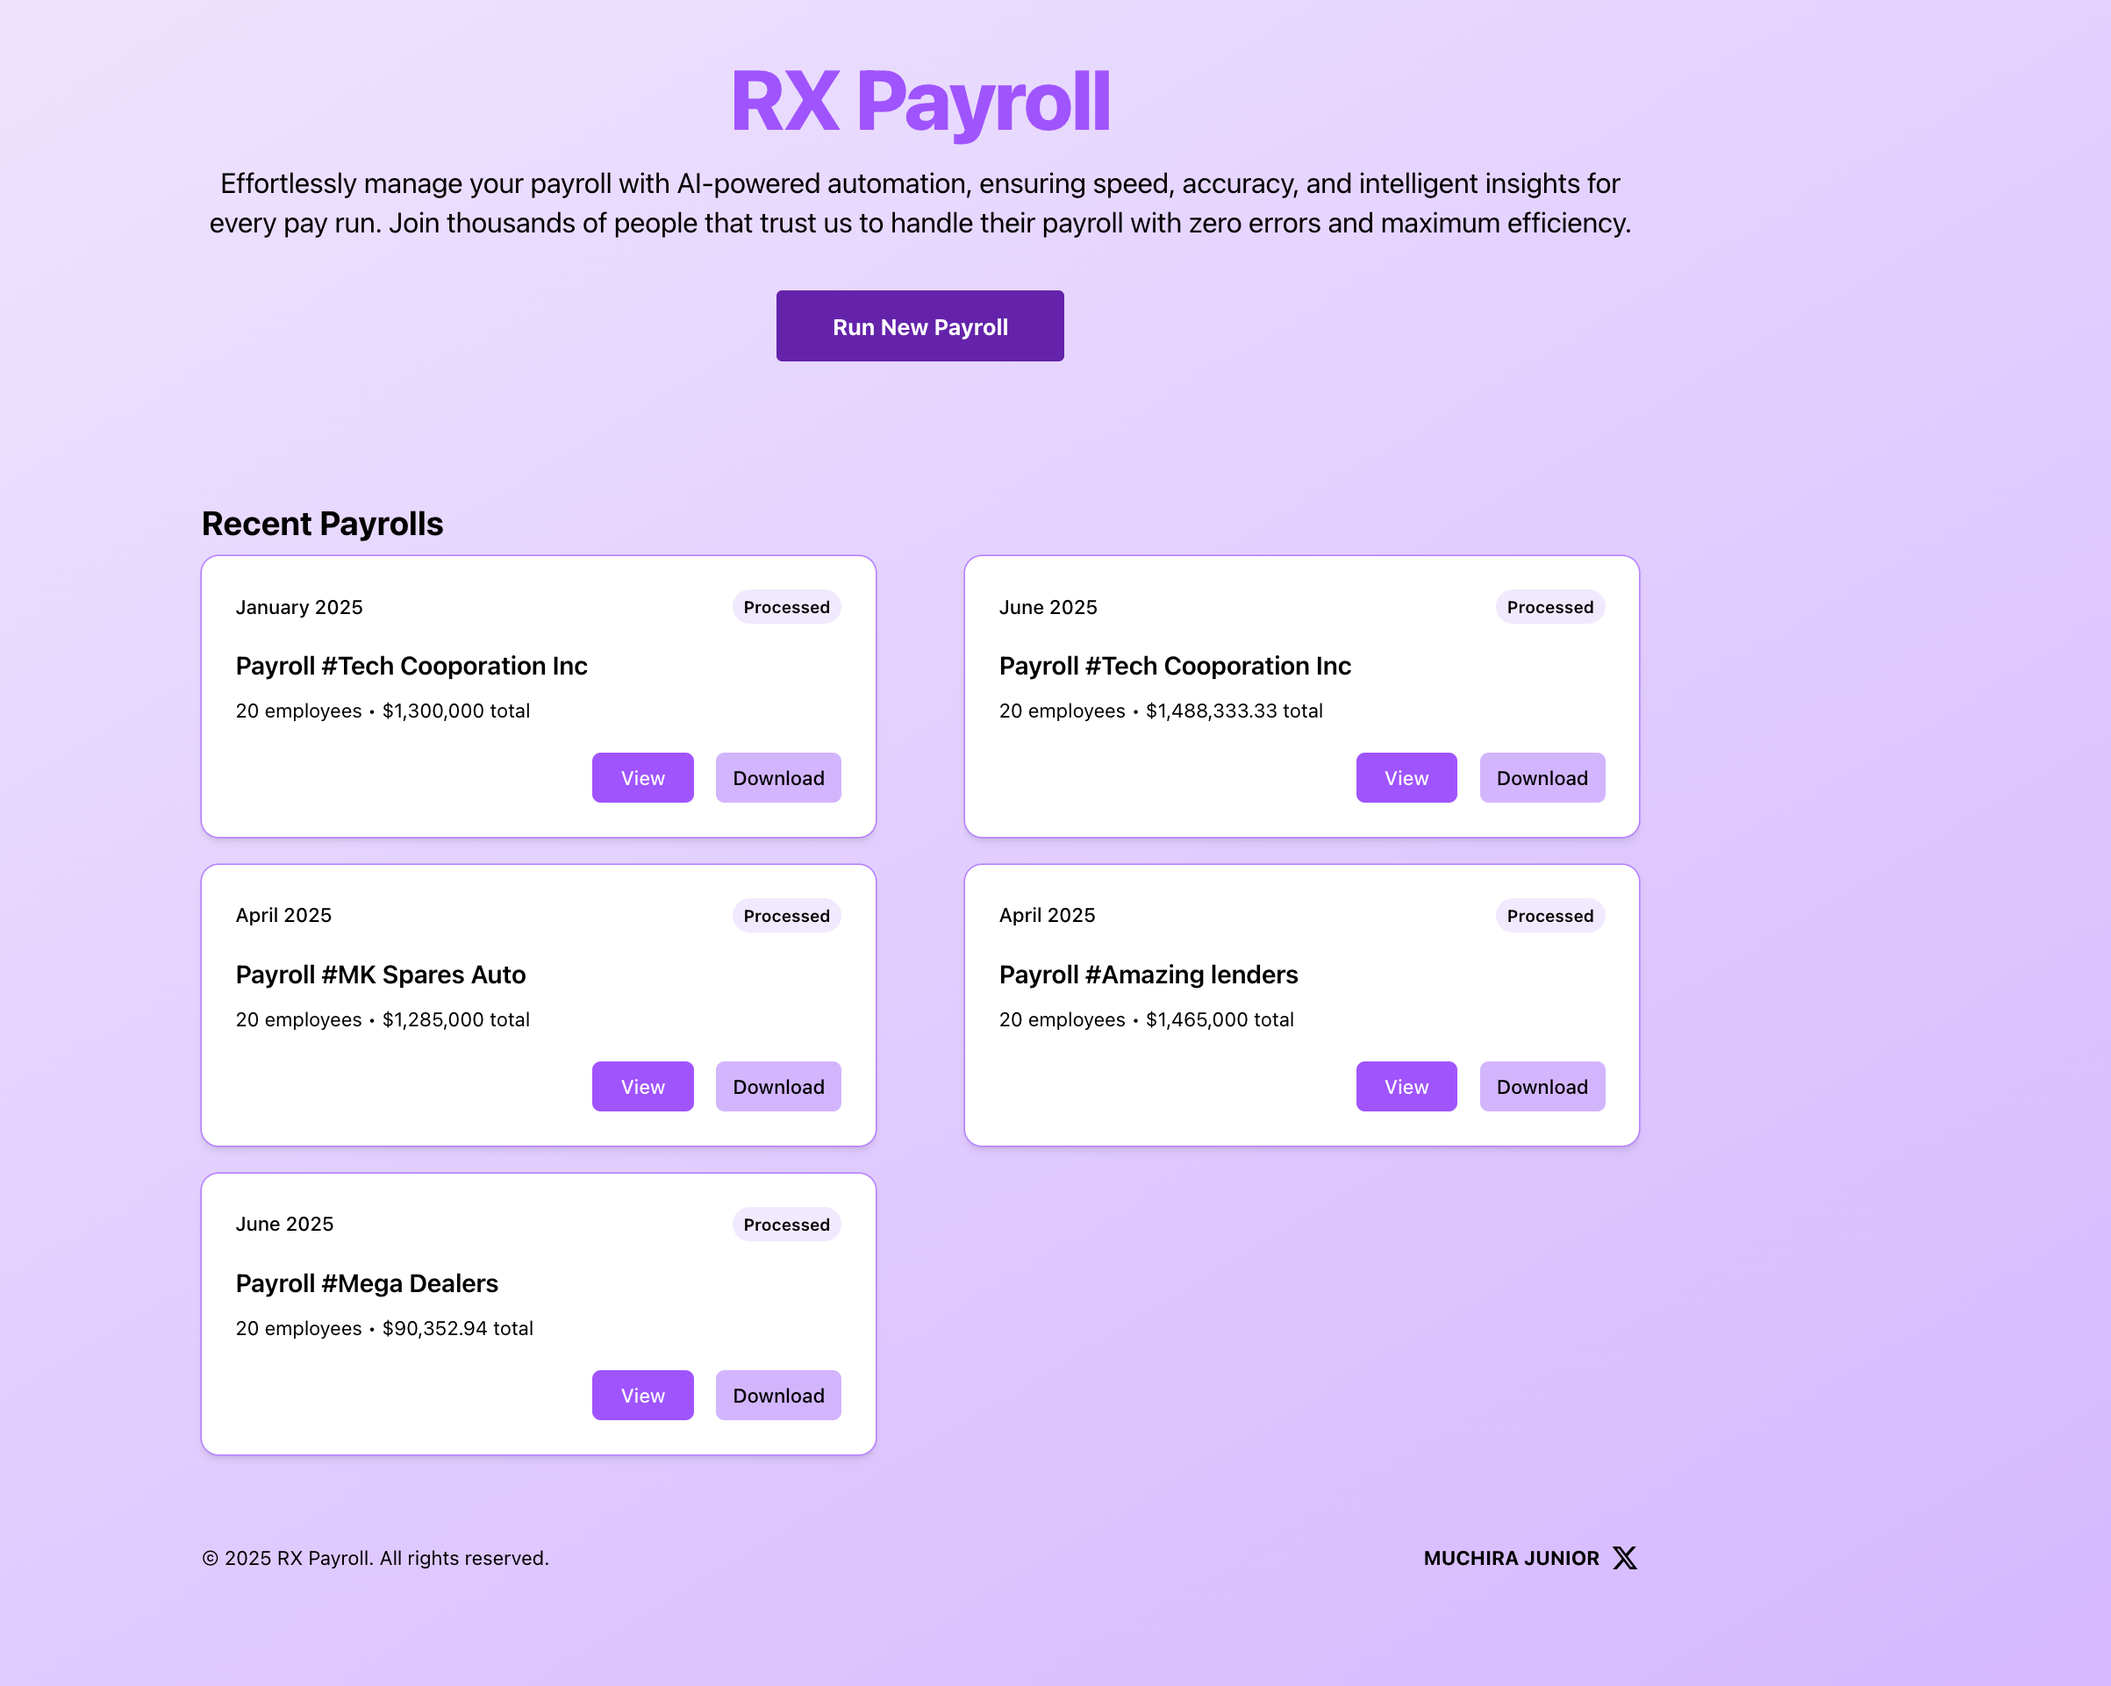
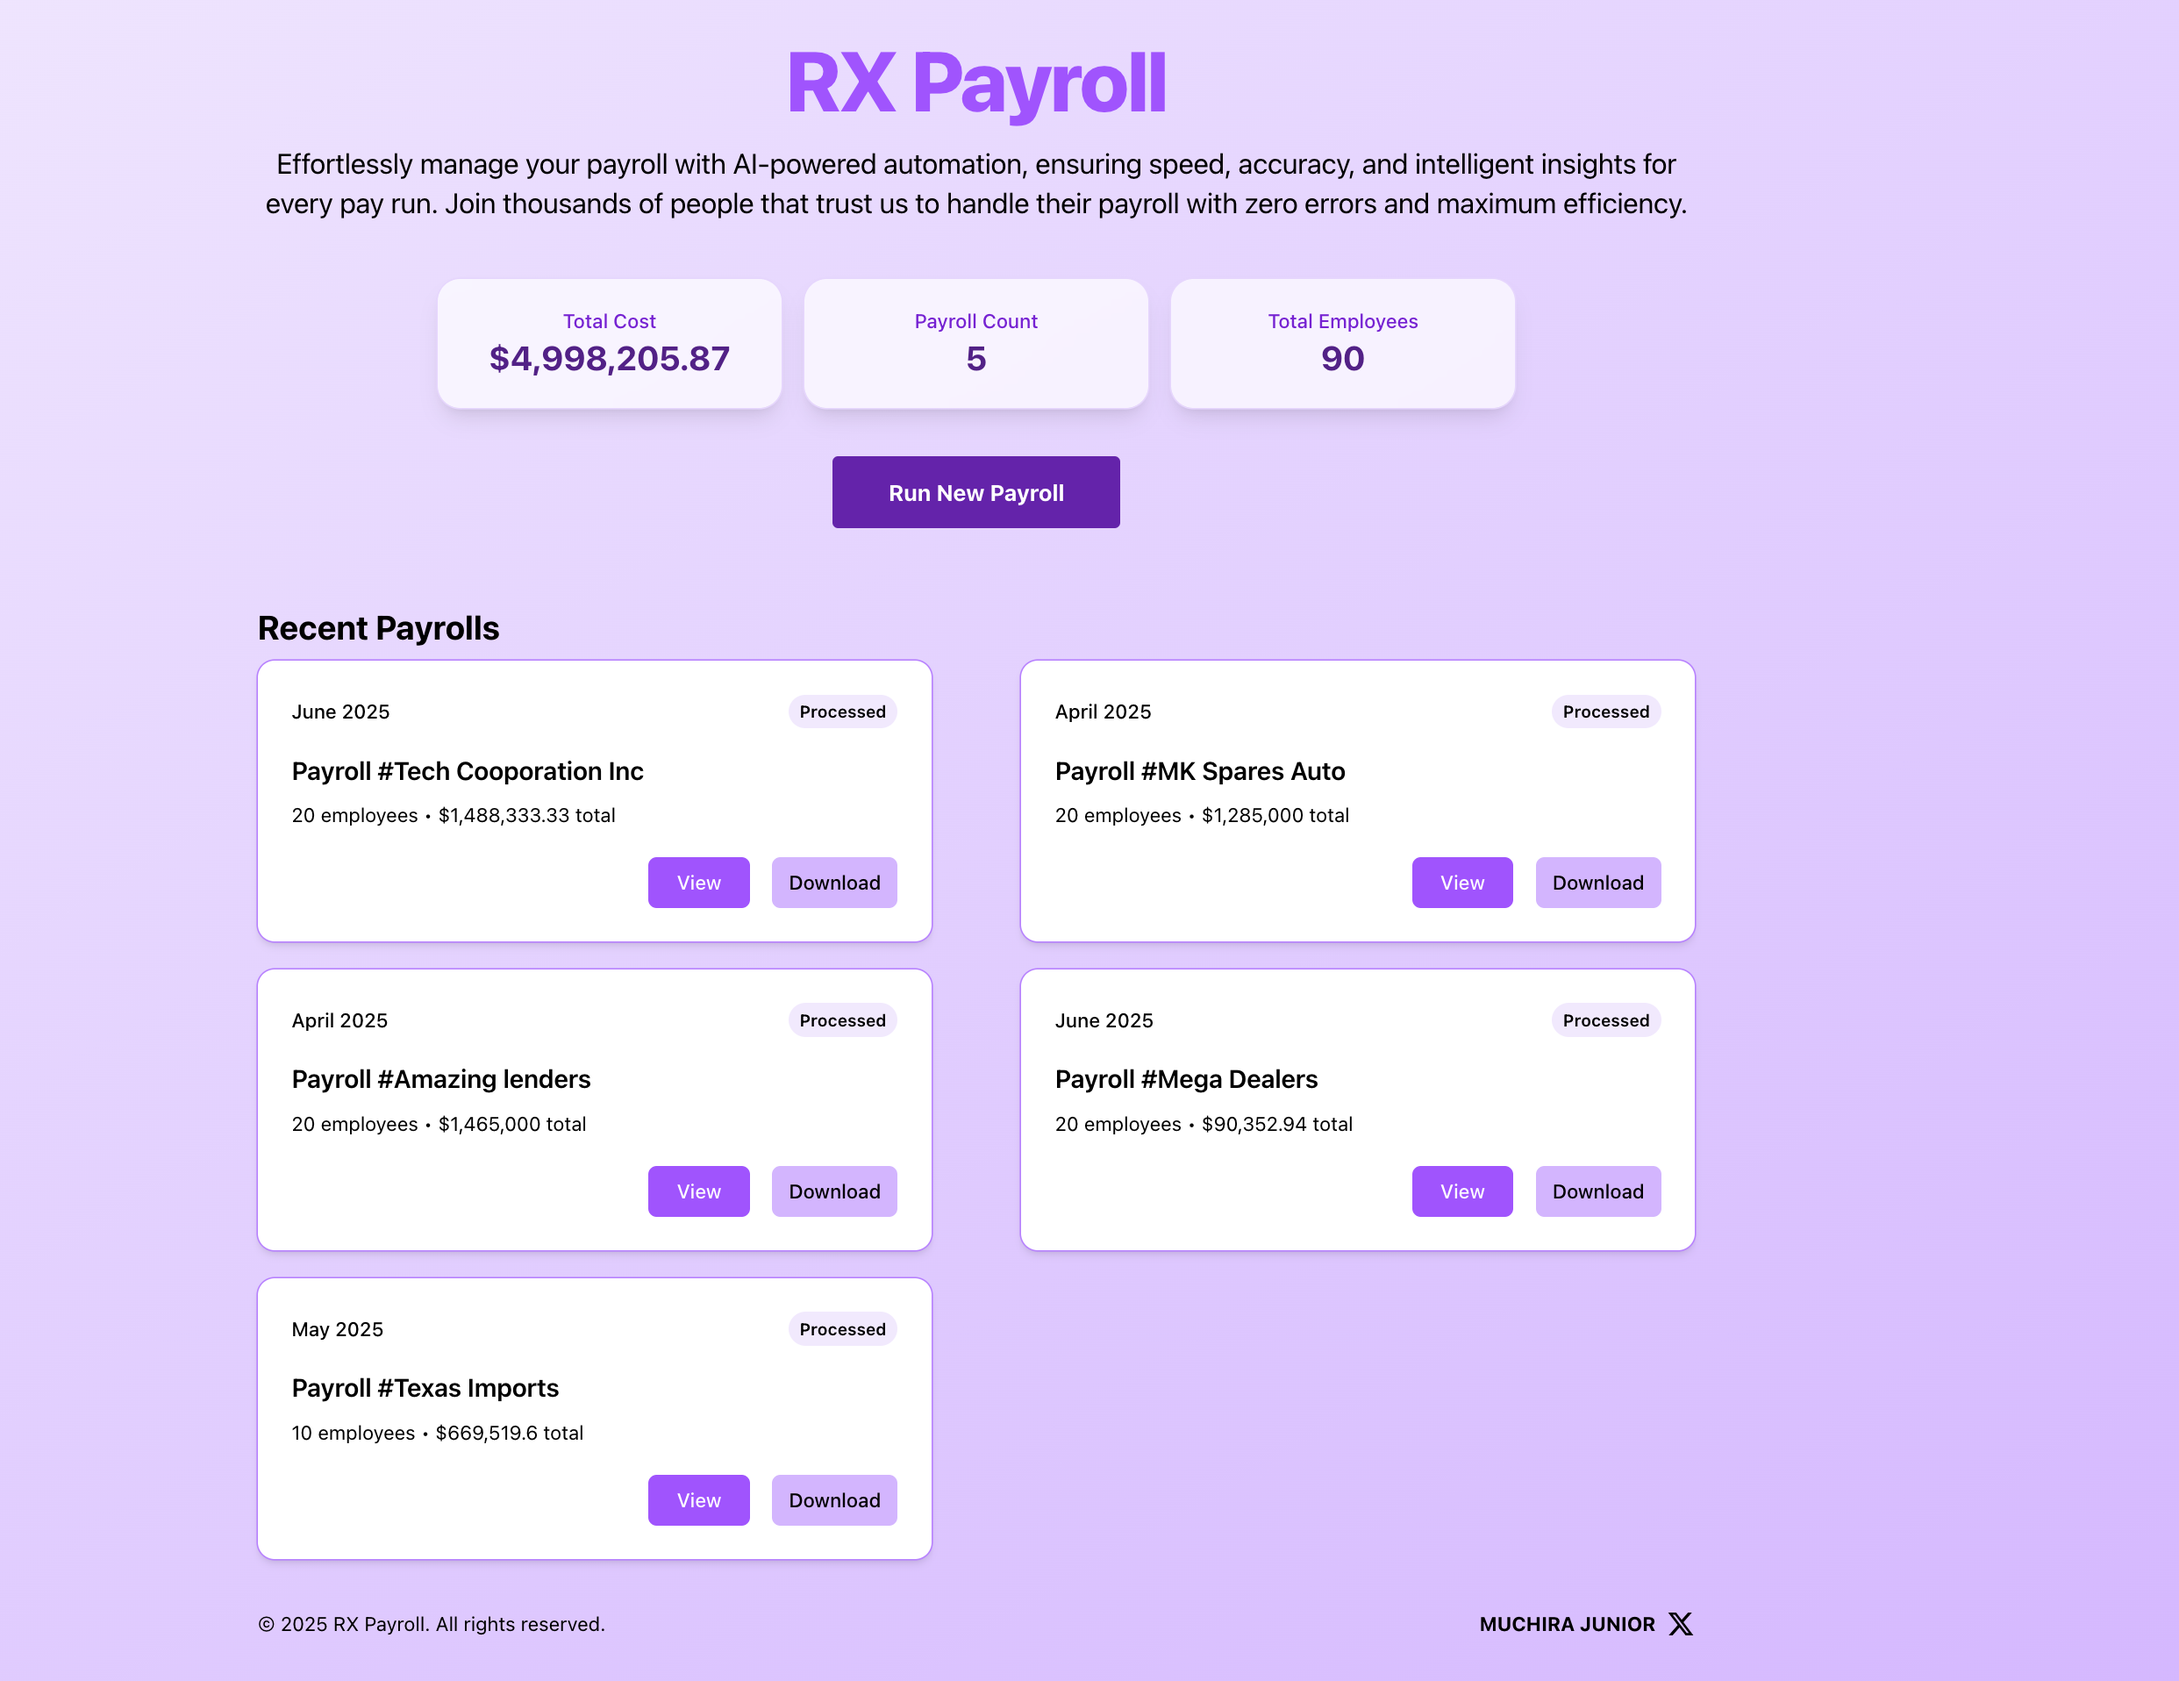
Update reports add reports on home and service function

Changed region(s): [[0.0935, 0.0308, 0.7793, 0.9854], [0.6858, 0.9546, 0.7793, 0.9854]]

diff --git a/app/page.tsx b/app/page.tsx
@@ -1,15 +1,21 @@
 import Link from "next/link";
 import { Payroll } from "./utils/types";
 import { supabase } from "./utils/utils";
+import { getPayrollReport } from "./utils/services";
 
 export default async function Home() {
   const { data: payrolls, error } = await supabase.from('payroll').select< string, Payroll>();
+
+  const report = await getPayrollReport();
+
+  console.log(report);
+  
 
   
   return (
     <div className="min-h-screen h-full bg-gradient-to-br from-purple-100 to-purple-300">
       {/* Banner Section */}
-      <div className="relative overflow-hidden bg-gradient-to-r from-purple-9 to-purple-10 px-6 py-16 sm:px-8">
+      <div className="relative overflow-hidden bg-gradient-to-r from-purple-9 to-purple-10 px-6 py-12 sm:px-8">
         <div className="mx-auto max-w-5xl text-center">
           <h1 className="text-4xl font-extrabold tracking-tight text-purple-500 sm:text-5xl lg:text-6xl">
             RX Payroll
@@ -18,6 +24,21 @@ export default async function Home() {
             Effortlessly manage your payroll with AI-powered automation, ensuring speed, accuracy, and intelligent insights for every pay run.
               Join thousands of people that trust us to handle their payroll with zero errors and maximum efficiency.
           </p>
+          {/* Report Summary Card */}
+          <div className="mt-10 grid grid-cols-1 sm:grid-cols-3 gap-4 max-w-3xl mx-auto">
+            <div className="bg-white/70 backdrop-blur rounded-2xl p-5 shadow-lg ring-1 ring-purple-200">
+              <p className="text-sm text-purple-700 font-medium">Total Cost</p>
+              <p className="text-2xl font-bold text-purple-900">${report.total_cost.toLocaleString()}</p>
+            </div>
+            <div className="bg-white/70 backdrop-blur rounded-2xl p-5 shadow-lg ring-1 ring-purple-200">
+              <p className="text-sm text-purple-700 font-medium">Payroll Count</p>
+              <p className="text-2xl font-bold text-purple-900">{report.payroll_count}</p>
+            </div>
+            <div className="bg-white/70 backdrop-blur rounded-2xl p-5 shadow-lg ring-1 ring-purple-200">
+              <p className="text-sm text-purple-700 font-medium">Total Employees</p>
+              <p className="text-2xl font-bold text-purple-900">{report.total_employees}</p>
+            </div>
+          </div>
           <br />
           <br />
           <Link className="px-10 py-4 bg-purple-800 text-white font-bold cursor-pointer rounded" href='/payroll'>
@@ -27,7 +48,7 @@ export default async function Home() {
       </div>
 
       {/* Recent Payrolls Section */}
-      <div className="mx-auto max-w-5xl py-12">
+      <div className="mx-auto max-w-5xl py-5">
         <h2 className="text-2xl font-bold mb-2">Recent Payrolls</h2>
 
        { error && <div className="p-3 border border-red-500 bg-red-100 text-red-800 rounded"> {error.message} </div>}

diff --git a/app/utils/services.ts b/app/utils/services.ts
@@ -1,7 +1,7 @@
 'use server';
 
 import { revalidatePath } from "next/cache";
-import { Payroll } from "./types";
+import { Payroll, PayrollReport } from "./types";
 import { openAIClient, supabase } from "./utils";
 
 const sample = {
@@ -130,4 +130,18 @@ export async function runPayroll(
         
         return {error: error.toString(), payrollId: null}
     }
+}
+
+export async function getPayrollReport(): Promise<PayrollReport> {
+  try {
+    const { data, error } = await supabase.rpc('get_payroll_report');
+    if (error) {
+      console.error('[getPayrollReport] Error fetching report:', error);
+      return { payroll_count: 0, total_employees: 0, total_cost: 0 };
+    }
+    return data as PayrollReport;
+  } catch (err) {
+    console.error('[getPayrollReport] Unexpected error:', err);
+    return { payroll_count: 0, total_employees: 0, total_cost: 0 };
+  }
 }

diff --git a/app/utils/types.ts b/app/utils/types.ts
@@ -59,3 +59,8 @@ export type Deduction = {
   tax_deductible: string | null;
 };
 
+export type PayrollReport = {
+  payroll_count: number;
+  total_employees: number;
+  total_cost: number;
+};

diff --git a/README.md b/README.md
@@ -129,6 +129,11 @@ If you include nested arrays (e.g., `deductions`, `leaves`) in your line items, 
 - `npm run start`: start production server
 - `npm run lint`: run ESLint
 
+### Generate report on supabase
+```md
+   i want a database function for report on number of number of payroll run, number of employees, and total costs that returns { payroll_count:2, total_employees:50, total_cost:8000} function name get_payroll_report
+```
+
 ## Notes
 
 - Anonymous auth is used on first load to keep onboarding friction low (`app/layout.tsx:26`).
